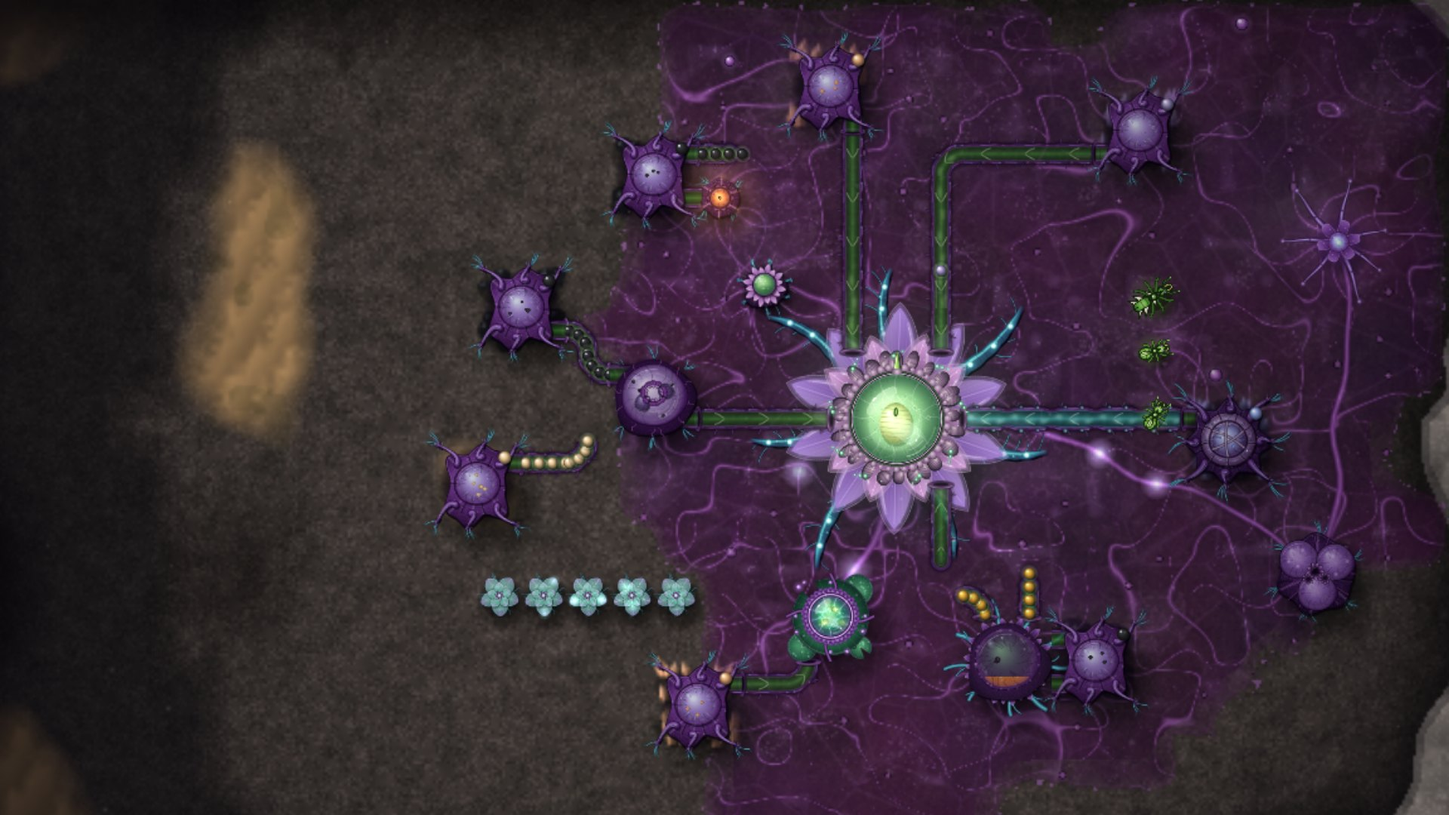
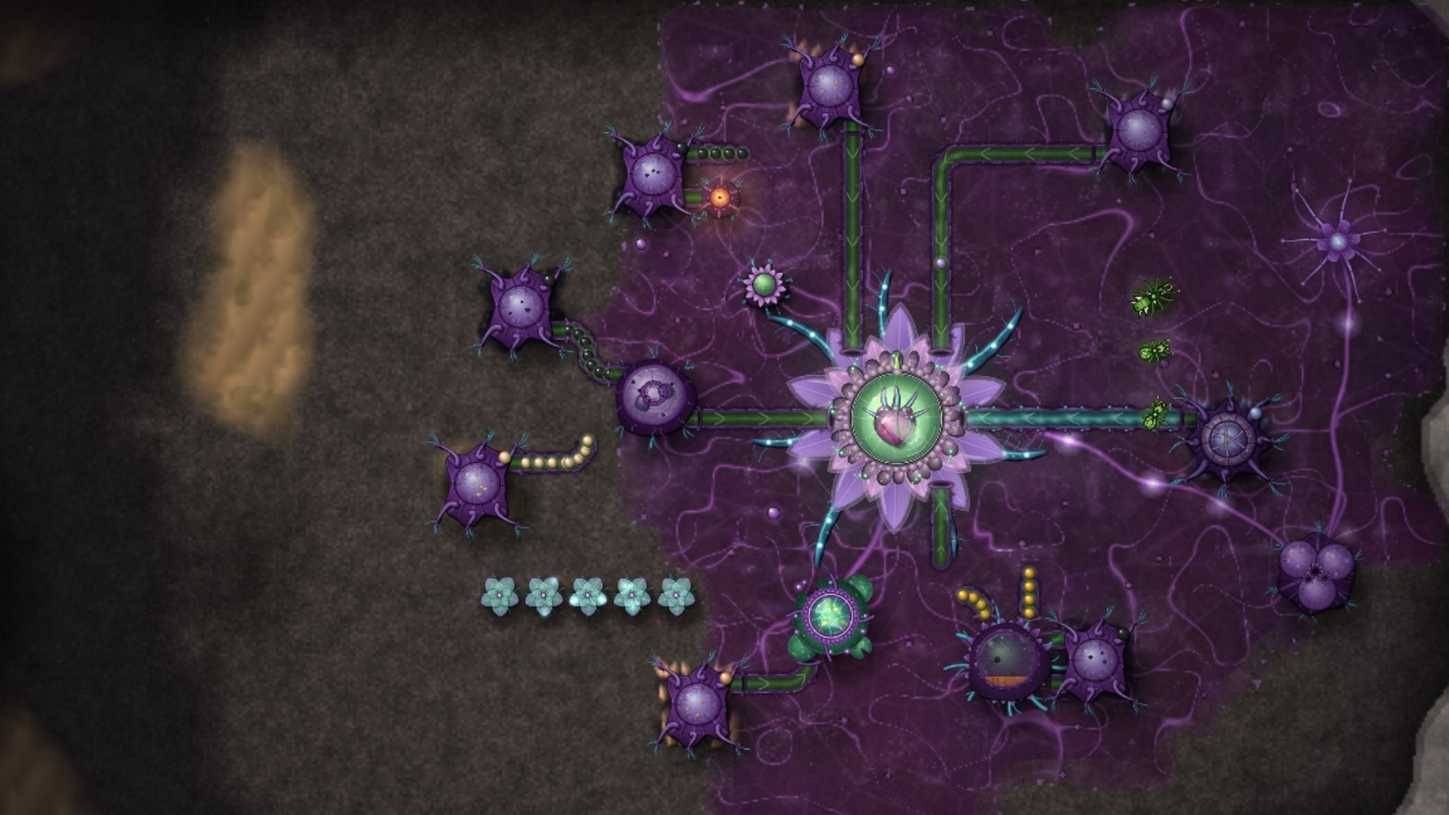
v62: the Bloom Heart replaces the seed in the Bloom's chamber (looks only)
A painted violet heart with turquoise vessels, from the Bloom painter, that
squeezes harder than the chamber on each beat. Title and menu pictures
rendered again to show it. New test tests/xtest62.js.

Claude-Session: https://claude.ai/code/session_015iMpnrdkSLoDdVTGJ8Uq2X

diff --git a/art/source/paint_bloom.js b/art/source/paint_bloom.js
@@ -1,6 +1,6 @@
 // Paints the Bloom layers. Runs in a headless browser; each layer comes back as a PNG data URL.
 // Box layers are 896x896 and cover the Bloom's 3x3 footprint plus 2 tiles of margin on every side (7x7 tiles, 128 px per tile).
-// The footprint is the centre 384x384. Petals, the core and the pulse are separate small sprites that the game places and animates.
+// The footprint is the centre 384x384. Petals, the Bloom Heart and the pulse are separate small sprites that the game places and animates.
 (()=>{
 const N=896,C=448,DR=132; // chamber centre and radius
 let sd=4242;const rnd=()=>(sd=(sd*16807)%2147483647)/2147483647;
@@ -95,21 +95,57 @@ out.petal_inner=petal(146,262,'#2c0f36','#7a3a86','#d09ade','255,214,246','255,2
   const v=c.createRadialGradient(C,C,DR*.6,C,C,DR);v.addColorStop(0,'rgba(0,30,20,0)');v.addColorStop(1,'rgba(0,30,20,.45)');c.fillStyle=v;c.fillRect(0,0,N,N);
   c.restore();out.fluid=cv.toDataURL('image/png');}
 
-// ---------- core: the suspended seed, with a translucent sac and trailing filaments ----------
-{const W=200,[cv,c]=mk(W,W),x=W/2,y=W/2;sd=31;
-  c.strokeStyle='rgba(220,240,200,.28)';c.lineWidth=1.2;for(let k=0;k<6;k++){const a=Math.PI/2+(k-2.5)*.28;c.beginPath();c.moveTo(x+Math.cos(a)*50,y+Math.sin(a)*60);
-    c.bezierCurveTo(x+Math.cos(a)*70+(rnd()-.5)*30,y+Math.sin(a)*80,x+Math.cos(a)*80+(rnd()-.5)*40,y+88,x+Math.cos(a)*86+(rnd()-.5)*30,y+96);c.stroke();}
-  const sac=c.createRadialGradient(x,y,40,x,y,80);sac.addColorStop(0,'rgba(230,255,220,0)');sac.addColorStop(.85,'rgba(230,255,220,.16)');sac.addColorStop(1,'rgba(230,255,220,0)');c.fillStyle=sac;c.beginPath();c.ellipse(x,y,74,84,0,0,7);c.fill();
-  glow(c,x,y,70,'190,255,170',.35);
-  c.fillStyle='rgba(20,40,20,.35)';c.beginPath();c.ellipse(x+5,y+7,46,58,0,0,7);c.fill();
-  const g=c.createRadialGradient(x-14,y-20,4,x,y,58);g.addColorStop(0,'#fbf6dc');g.addColorStop(.5,'#cdd39a');g.addColorStop(1,'#66733f');c.fillStyle=g;c.beginPath();c.ellipse(x,y,44,56,0,0,7);c.fill();
-  c.save();c.beginPath();c.ellipse(x,y,44,56,0,0,7);c.clip();
-  c.strokeStyle='rgba(70,80,40,.45)';c.lineWidth=2;for(let k=0;k<7;k++){c.beginPath();c.moveTo(x-40,y-40+k*13);c.bezierCurveTo(x-15,y-48+k*14+rnd()*8,x+15,y-30+k*12-rnd()*8,x+42,y-38+k*13);c.stroke();}
+// ---------- heart: the Bloom Heart, a living violet heart suspended in the fluid and fed by turquoise vessels ----------
+{const W=256,[cv,c]=mk(W,W),x=W/2+2,y=W/2+8;sd=31;
+  const P=(f)=>{c.beginPath();f();};
+  // the outline: a broad left ventricle and a narrower right one meeting in a blunt apex turned down and right
+  const body=()=>{c.moveTo(x-4,y-46);c.bezierCurveTo(x-40,y-60,x-74,y-34,x-68,y+2);c.bezierCurveTo(x-62,y+34,x-28,y+58,x+14,y+68);
+    c.bezierCurveTo(x+40,y+52,x+62,y+20,x+60,y-14);c.bezierCurveTo(x+58,y-46,x+26,y-58,x-4,y-46);c.closePath();};
+  const sac=c.createRadialGradient(x,y,52,x,y,114);sac.addColorStop(0,'rgba(230,255,240,0)');sac.addColorStop(.82,'rgba(200,255,236,.13)');sac.addColorStop(1,'rgba(200,255,236,0)');c.fillStyle=sac;c.beginPath();c.ellipse(x-2,y-8,106,114,0,0,7);c.fill();
+  glow(c,x,y,98,'120,250,226',.2);glow(c,x-6,y,72,'230,120,200',.16);
+  // a tapering, slightly wavering tube
+  const tube=(pts,w0,w1,layers)=>{const n=40,q2=t=>{const u=1-t;return [u*u*pts[0]+2*u*t*pts[2]+t*t*pts[4],u*u*pts[1]+2*u*t*pts[3]+t*t*pts[5]];};
+    for(const [k,col,f] of layers)for(let i=0;i<=n;i++){const t=i/n,[px,py]=q2(t),w=(w0+(w1-w0)*t)*k*(1+.06*Math.sin(t*19)),a=f(t);if(a<=0)continue;c.fillStyle=col.replace('A',a.toFixed(3));c.beginPath();c.arc(px,py,w/2,0,7);c.fill();}};
+  const fade=t=>t<.55?1:Math.max(0,1-(t-.55)/.45);
+  // the great trunks rising from the top, joining the heart to the Bloom's roots and fading into the fluid
+  const V=[[x-32,y-48,x-50,y-86,x-40,y-118,17,9],[x-4,y-54,x+4,y-92,x-8,y-124,20,10],[x+24,y-50,x+50,y-80,x+60,y-110,15,8],[x+48,y-30,x+82,y-46,x+104,y-60,12,6],[x-58,y-24,x-88,y-40,x-108,y-48,11,6]];
+  for(const v of V){const L=[[1.3,'rgba(16,6,22,A)',t=>.8*fade(t)],[1,'rgba(80,30,92,A)',fade],[.82,'rgba(124,52,132,A)',t=>.7*fade(t)],[.38,'rgba(70,214,196,A)',t=>.85*fade(t)],[.12,'rgba(190,255,244,A)',t=>.5*fade(t)]];tube(v.slice(0,6),v[6],v[7],L);}
+  // shadow under the body
+  c.save();c.translate(6,9);c.fillStyle='rgba(8,18,14,.4)';P(body);c.fill();c.restore();
+  // the atria: two softer chambers behind the top of the heart
+  for(const [ax,ay,rx,ry] of [[x-36,y-40,26,20],[x+28,y-44,22,17]]){const g=c.createRadialGradient(ax-8,ay-8,2,ax,ay,rx);g.addColorStop(0,'#cf84bc');g.addColorStop(.55,'#7e3478');g.addColorStop(1,'#2e0c34');c.fillStyle=g;c.beginPath();c.ellipse(ax,ay,rx,ry,-.2,0,7);c.fill();
+    c.strokeStyle='rgba(26,8,30,.65)';c.lineWidth=2;c.stroke();}
+  // the body: violet flesh lit from the upper left, darker at the rim
+  const g=c.createRadialGradient(x-28,y-20,6,x,y+6,86);g.addColorStop(0,'#e89ad0');g.addColorStop(.25,'#b2449c');g.addColorStop(.6,'#6c1c66');g.addColorStop(1,'#240824');
+  c.fillStyle=g;P(body);c.fill();
+  c.save();P(body);c.clip();
+  // flesh: soft mottling and fine muscle fibres that wrap round the ventricles towards the apex
+  for(let k=0;k<70;k++){const px=x-70+rnd()*134,py=y-50+rnd()*120,r=4+rnd()*12;c.fillStyle=rnd()<.5?`rgba(255,200,240,${.04+rnd()*.05})`:`rgba(40,6,40,${.05+rnd()*.06})`;c.beginPath();c.ellipse(px,py,r,r*.7,rnd()*3,0,7);c.fill();}
+  c.lineWidth=1.1;for(let k=0;k<26;k++){const t=k/25,s=(rnd()-.5)*8;c.strokeStyle=`rgba(50,10,48,${.1+.08*rnd()})`;c.beginPath();
+    c.moveTo(x-72+t*30,y-30+t*20+s);c.bezierCurveTo(x-40+t*26,y+10+t*30,x-6+t*14,y+40+t*14,x+14,y+66);c.stroke();}
+  for(let k=0;k<14;k++){const t=k/13;c.strokeStyle=`rgba(50,10,48,${.1+.08*rnd()})`;c.beginPath();c.moveTo(x+62-t*26,y-24+t*10);c.bezierCurveTo(x+50-t*20,y+12+t*16,x+30-t*8,y+44,x+14,y+66);c.stroke();}
+  // the groove between the ventricles
+  const groove=()=>{c.moveTo(x+4,y-50);c.bezierCurveTo(x-8,y-16,x+20,y+24,x+12,y+68);};
+  c.strokeStyle='rgba(30,6,30,.55)';c.lineWidth=10;P(groove);c.stroke();c.strokeStyle='rgba(250,190,235,.18)';c.lineWidth=2;c.translate(-5,0);P(groove);c.stroke();c.translate(5,0);
+  // rim shadow so it reads round, and a cool rim light on the far side from the fluid
+  const rim=c.createRadialGradient(x-14,y-10,38,x,y,92);rim.addColorStop(0,'rgba(20,0,20,0)');rim.addColorStop(1,'rgba(20,0,20,.6)');c.fillStyle=rim;c.fillRect(0,0,W,W);
+  c.strokeStyle='rgba(150,255,230,.28)';c.lineWidth=5;c.save();c.translate(-3,-2);c.beginPath();c.moveTo(x+60,y-14);c.bezierCurveTo(x+62,y+20,x+40,y+52,x+14,y+68);c.stroke();c.restore();
+  // turquoise vessels across the surface, glowing with the colony's nutrient light
+  const vein=(px,py,a,l,w,d)=>{if(d>4||l<5)return;const ex=px+Math.cos(a)*l,ey=py+Math.sin(a)*l,mx=px+Math.cos(a+(rnd()-.5)*.9)*l*.5,my=py+Math.sin(a+(rnd()-.5)*.9)*l*.5;
+    for(const [lw,col] of [[w+2,'rgba(24,6,30,.45)'],[w,'rgba(96,214,200,.72)'],[w*.38,'rgba(220,255,248,.6)']]){c.strokeStyle=col;c.lineWidth=lw;c.lineCap='round';c.beginPath();c.moveTo(px,py);c.quadraticCurveTo(mx,my,ex,ey);c.stroke();}
+    vein(ex,ey,a+(rnd()-.5)*.35,l*.78,w*.78,d+1);if(rnd()<.7)vein(mx,my,a+(rnd()<.5?-1:1)*(.7+rnd()*.4),l*.55,w*.6,d+2);};
+  glow(c,x+6,y+10,44,'120,250,226',.1);
+  vein(x+4,y-50,1.72,22,3.6,0);vein(x-24,y-46,2.15,22,2.8,0);vein(x+22,y-50,1.0,20,2.8,0);vein(x-50,y-26,1.75,18,2.2,1);vein(x+46,y-30,1.6,18,2.2,1);
   c.restore();
-  // the germ: a dark slit that glows faintly green
-  glow(c,x,y-30,20,'170,255,120',.45);c.fillStyle='#1d2a12';c.beginPath();c.ellipse(x,y-30,6,13,0,0,7);c.fill();c.fillStyle='rgba(200,255,150,.8)';c.beginPath();c.ellipse(x,y-31,1.6,8,0,0,7);c.fill();
-  c.fillStyle='rgba(255,255,255,.55)';c.beginPath();c.ellipse(x-18,y-28,9,5,-.6,0,7);c.fill();
-  out.core=cv.toDataURL('image/png');}
+  c.strokeStyle='rgba(26,6,28,.75)';c.lineWidth=2.4;P(body);c.stroke();
+  // stumps where the trunks meet the heart, open and glowing
+  for(const v of V){const w=v[6];c.fillStyle='#5a2462';c.beginPath();c.ellipse(v[0],v[1],w*.6,w*.44,0,0,7);c.fill();c.strokeStyle='rgba(20,4,24,.7)';c.lineWidth=1.5;c.stroke();glow(c,v[0],v[1],w*.7,'120,250,226',.55);c.fillStyle='rgba(200,255,244,.9)';c.beginPath();c.ellipse(v[0],v[1],w*.22,w*.15,0,0,7);c.fill();}
+  // wet highlights
+  c.fillStyle='rgba(255,240,252,.5)';c.beginPath();c.ellipse(x-38,y-14,13,6,-1,0,7);c.fill();
+  c.fillStyle='rgba(255,240,252,.28)';c.beginPath();c.ellipse(x-30,y+16,7,3,-.8,0,7);c.fill();
+  c.fillStyle='rgba(255,240,252,.35)';c.beginPath();c.ellipse(x+32,y-28,6,3,-.3,0,7);c.fill();
+  drop(c,x-44,y-46,7);
+  out.heart=cv.toDataURL('image/png');}
 
 // ---------- membrane: veins across the chamber and a soft inner glow (pulses) ----------
 {const [cv,c]=mk();sd=12;c.save();c.beginPath();c.arc(C,C,DR,0,7);c.clip();

diff --git a/index.html b/index.html
@@ -1093,7 +1093,7 @@ function webArtFx(c,time,tx0,ty0,tx1,ty1){
     if(f.k==='b'){c.globalCompositeOperation='source-over';c.globalAlpha=.9*fade;const s=S*(1+.35*Math.sin(Math.PI*u));c.drawImage(A.img[3],f.x*T-s/2,f.y*T-s/2,s,s);continue;}
     c.globalCompositeOperation=f.k==='s'?'screen':'lighter';c.globalAlpha=(f.k==='s'?.16:f.k==='g'?.22:.75)*fade;c.drawImage(A.img[f.k==='s'?2:1],f.x*T-r,f.y*T-r,S,S);}
   c.restore();}
-let artHB=0;
+let artHB=0,artHA=0;
 // ===== v61: the colony's circulation (looks only). The Bloom beats twice every 7 to 10 seconds: its chamber tightens and brightens, the
 // petals follow a moment later and less, the veins in its membrane flare, then it rests. Each beat pumps a few turquoise nutrient lights
 // out of the Bloom; they travel through the real Rootweb that the Bloom feeds (the same flood the supply uses), never over bare ground or
@@ -3235,7 +3235,7 @@ function hashS(n){return (Math.sin(n*12.9898)*43758.5453)%1;}
 // Layer fields: f file, g:'dome' to move with the breathing dome, blend ('lighter','screen'...), alpha, pass:'under' to draw beneath
 //   neighbouring buildings (petals, roots), lite:false hides it in the cheap mode, far:false hides it when zoomed far out.
 //   anim: 'pulse' (alpha min..max over period s), 'shimmer' (drifts amp*box), 'float' (n copies of a small sprite drifting inside the dome),
-//   'bob' (one small sprite floating near the dome centre), 'petals' (n petal sprites around the centre, each swaying on its own),
+//   'bob' (one small sprite floating near the dome centre; beat:k squeezes it k times the Bloom's heartbeat), 'petals' (n petal sprites around the centre, each swaying on its own),
 //   'rootpulse' (a glow sprite travelling out along the entry's roots), 'spin', 'aim' (turns to the turret angle), 'blink'.
 // Entry fields: dir, pad, dome [cx,cy,r] as fractions of the box, breathe {amp,period}, priority (always full animation),
 //   hurtShrink (petals shrink by this much at zero health), roots (quadratic curves for 'rootpulse'), over (code-drawn game feedback),
@@ -3312,7 +3312,7 @@ const ART={plant:{
       {f:'petal_outer.png',pass:'under',anim:'petals',n:10,off:0,len:.38,wid:.196,sway:.03,grow:.03,period:6.5},
       {f:'petal_inner.png',pass:'under',anim:'petals',n:10,off:.5,len:.292,wid:.163,sway:.04,grow:.035,period:5.3},
       {f:'collar.png',rect:[.245,.245,.51,.51]},{f:'fluid.png',g:'dome',rect:CH},
-      {f:'core.png',anim:'bob',size:.24,amp:.012,period:9,g:'dome'},
+      {f:'heart.png',anim:'bob',size:.27,amp:.012,period:9,g:'dome',beat:2.4},
       {f:'membrane.png',anim:'pulse',min:.2,max:.42,period:7.5,blend:'lighter',g:'dome',rect:CH},
       {f:'glass.png',g:'dome',rect:CH},{f:'highlight.png',anim:'shimmer',amp:.01,period:8,blend:'screen',g:'dome',far:false,rect:CH},
       {f:'stinger.png',anim:'aim',rect:[.635,.478,.095,.044]}]},
@@ -3409,7 +3409,8 @@ function artLayer(c,a,L,im,bx,by,BS,tt,ph,br,b,hk){
       const px=ox+Math.sin(w*1.3+k)*R*Math.cos(k*1.7),py=oy+Math.sin(w*.9+k*2.3)*R*.8+Math.sin(tt*1.1+k)*s*.15;
       c.save();c.translate(px,py);c.rotate(Math.sin(w*.8+k)*.6+k);c.globalAlpha*=.65+.35*Math.sin(w*2+k);c.drawImage(im,-s/2,-s/2,s,s);c.restore();}}
   else if(L.anim==='bob'){const s=L.size*BS,w=tt*W/L.period+ph;
-    c.translate(ox+Math.sin(w)*L.amp*BS,oy+Math.sin(w*.77+1)*L.amp*BS*1.3);c.rotate(Math.sin(w*.6)*.07);c.drawImage(im,-s/2,-s/2,s,s);}
+    const z=L.beat?s*(1-artHA*L.beat):s;   // the Bloom Heart squeezes harder than its chamber on each beat
+    c.translate(ox+Math.sin(w)*L.amp*BS,oy+Math.sin(w*.77+1)*L.amp*BS*1.3);c.rotate(Math.sin(w*.6)*.07);c.drawImage(im,-z/2,-z/2,z,z);}
   else if(L.anim==='petals'){const n=L.n,w=L.wid*BS,len=L.len*BS*hk,bp=a.breathe?tt*W/a.breathe.period+ph:0;
     for(let k=0;k<n;k++){const p=ph+k*2.399,sw=tt?L.sway*Math.sin(tt*W/L.period+p):0,
         g=tt?1+L.grow*(.55*Math.sin(bp-k*.15)+.45*Math.sin(tt*W/(L.period*1.37)+p*1.7)):1;
@@ -3449,7 +3450,7 @@ function artDraw(c,a,x,y,S,rot,b,time,under){
   const tt=live?(time||0):0,ph=b?(b.id*1.618)%6.283:0;
   let br=a.breathe&&live?1+a.breathe.amp*Math.sin(tt*6.283/a.breathe.period+ph):1;
   let hk=a.hurtShrink&&b?1-a.hurtShrink*(1-Math.max(0,b.hp/b.max)):1;
-  if(b&&live&&b===G.core&&!b.team&&CIRC.G===G){br*=1-CIRC.A*1.15;hk*=1-CIRC.Ap*.6;artHB=CIRC.V;}else artHB=0;
+  if(b&&live&&b===G.core&&!b.team&&CIRC.G===G){br*=1-CIRC.A*1.15;hk*=1-CIRC.Ap*.6;artHB=CIRC.V;artHA=CIRC.A;}else artHB=artHA=0;
   if(a.weapon&&b&&!under){const W=a.weapon;artWeapon(a,b,tt,live);const F=artFire;
     br*=(1-W.squeeze*F.fp)*(1-W.deflate*(1-Math.max(0,b.hp/b.max)));                       // squeezes on each shot, sags as it is hurt
     hk*=1-W.tight*(b._tg||0)-W.flinch*(b.hit>0?Math.min(1,b.hit/.12):0)-W.fireTight*F.fp;}  // petals tighten when engaged, hit or firing
@@ -3471,7 +3472,7 @@ function artDraw(c,a,x,y,S,rot,b,time,under){
     if(L.ammo!=null&&L.ammo!==artFire.ammo)return;
     c.save();if(L.blend)c.globalCompositeOperation=L.blend;c.globalAlpha*=L.alpha??1;
     artLayer(c,a,L,a.img[i],bx,by,BS,tt,ph,br,b,hk);c.restore();});
-  c.restore();c.imageSmoothingEnabled=sm;artHB=0;}
+  c.restore();c.imageSmoothingEnabled=sm;artHB=artHA=0;}
 function drawArt(c,t,x,y,rot,b,time,team){
   const a=artFor(t,team);if(!a)return false;const S=B[t].size*T;
   if(a.custom){const sm=c.imageSmoothingEnabled;c.imageSmoothingEnabled=true;a.custom(c,a,x,y,b,time||0,!b||organLite(t)?'lite':'full');c.imageSmoothingEnabled=sm;artDrawn++;return true;}

diff --git a/tests/xtest62.js b/tests/xtest62.js
@@ -1,0 +1,39 @@
+// v62: the Bloom Heart. The floating seed in the Bloom's chamber is replaced by a painted heart (art/plant/bloom/heart.png) that
+// squeezes harder than the chamber on each beat. Run with a web server on the repo root (port 8123). SHOTS is where pictures go.
+const {chromium}=require(process.env.PW||'playwright');const fs=require('fs');
+const URL=process.env.URL||'http://localhost:8123/',SHOTS=process.env.SHOTS||'shots62';fs.mkdirSync(SHOTS,{recursive:true});
+let fails=0;const ok=(name,c,extra='')=>{if(!c)fails++;console.log(c?'PASS':'FAIL',name,extra);};
+(async()=>{const br=await chromium.launch();
+ const open=async(art='1',rm=false)=>{const ctx=await br.newContext({viewport:{width:1280,height:800},reducedMotion:rm?'reduce':'no-preference'});const p=await ctx.newPage();
+  p.errs=[];p.on('pageerror',e=>p.errs.push(String(e)));
+  await p.addInitScript(a=>{try{localStorage.clear();localStorage.setItem('lc_quality','high');localStorage.setItem('lc_splash','1');localStorage.setItem('lc_fog','0');localStorage.setItem('lc_art',a);}catch(e){}},art);
+  await p.goto(URL+'index.html');await p.waitForTimeout(1500);
+  await p.evaluate(()=>{window.T62={R0:render,
+    setup(){startGame('survival');G.core.hp=1e9;for(let s=0;s<20*30;s++){G.enemies.length=0;step(1/30);}window.render=()=>{};G.paused=true;
+      const [cx,cy]=bCenter(G.core);cam.z=2.6;centerOn(cx,cy);},
+    // draws one frame at game time t and records the size the heart sprite is drawn at
+    frame(t){const a=ART.plant.core,i=a.layers.findIndex(L=>L.f==='heart.png'),im=a.img[i];let z=null;const D=CanvasRenderingContext2D.prototype.drawImage;
+      CanvasRenderingContext2D.prototype.drawImage=function(...x){if(x[0]===im&&x.length>=5)z=x[3];return D.apply(this,x);};
+      G.time=t;try{T62.R0();}finally{CanvasRenderingContext2D.prototype.drawImage=D;}return {z,A:CIRC.A};}};});
+  return p;};
+ {const p=await open();
+  const r=await p.evaluate(()=>{const a=ART.plant.core;return {state:a.state,files:a.layers.map(L=>L.f),old:a.layers.some(L=>L.f==='core.png')};});
+  ok('1. the Bloom Heart art loads and the old seed is gone',r.state==='ready'&&r.files.includes('heart.png')&&!r.old,JSON.stringify(r));
+  await p.evaluate(()=>T62.setup());
+  // a beat from rest: the heart's size each frame against the chamber's tightening
+  const s=await p.evaluate(()=>{const t0=G.time;CIRC.beat=null;CIRC.next=t0+.02;const out=[];for(let i=0;i<40;i++)out.push(T62.frame(t0+i/30));return out;});
+  const rest=s[0].z,min=Math.min(...s.map(f=>f.z)),peak=s.reduce((m,f)=>f.A>m.A?f:m,s[0]);
+  const squeeze=1-min/rest,chamber=1-(1-peak.A*1.15);
+  ok('2. the heart is drawn and squeezes with the beat, harder than the chamber',rest>0&&squeeze>chamber*1.8,`heart ${(squeeze*100).toFixed(1)}%, chamber ${(chamber*100).toFixed(1)}%`);
+  await p.evaluate(()=>{CIRC.beat=null;CIRC.next=G.time+999;CIRC.A=0;CIRC.aft=0;CIRC.P.length=0;T62.frame(G.time);});await p.screenshot({path:SHOTS+'/heart_rest.png',clip:{x:440,y:200,width:400,height:400}});
+  const tp=await p.evaluate(()=>{const t0=G.time;CIRC.beat=null;CIRC.next=t0;T62.frame(t0);let best=t0,A=0;for(let i=1;i<20;i++){const f=T62.frame(t0+i/30);if(f.A>A){A=f.A;best=t0+i/30;}}return best;});
+  await p.evaluate(t=>T62.frame(t),tp);await p.screenshot({path:SHOTS+'/heart_beat.png',clip:{x:440,y:200,width:400,height:400}});
+  await p.evaluate(()=>{const [cx,cy]=bCenter(G.core);cam.z=1;centerOn(cx,cy);T62.frame(G.time+5);});await p.screenshot({path:SHOTS+'/heart_zoom1.png',clip:{x:340,y:100,width:600,height:600}});
+  ok('no page errors',!p.errs.length,p.errs.join(' | '));await p.context().close();}
+ {const p=await open('1',true);await p.evaluate(()=>T62.setup());
+  const s=await p.evaluate(()=>{const t0=G.time;const out=[];for(let i=0;i<30;i++)out.push(T62.frame(t0+i/10).z);return out;});
+  ok('3. reduced motion: the heart holds still',s.every(z=>z===s[0]),s.slice(0,3).join(','));
+  ok('no page errors',!p.errs.length,p.errs.join(' | '));await p.context().close();}
+ {const p=await open('0');await p.evaluate(()=>{T62.setup();T62.R0();});
+  ok('4. painted art off: the drawn Bloom still draws',!p.errs.length,p.errs.join(' | '));await p.context().close();}
+ await br.close();console.log(fails?fails+' FAILED':'ALL PASSED');process.exit(fails?1:0);})();

diff --git a/tests/README.md b/tests/README.md
@@ -98,6 +98,7 @@ Headless Chromium only has software WebGL, so frame times measured on the GPU pa
 | `elmenu59.js` | v59 in the packaged Linux desktop app: the title beats with the lub, dub and transition sounds decoded from the app's files; a key runs the transition onto the menu on the wall clock; the live scene steps 30 times a second; v0.6.8 and Quit at the foot; scenes change; the switch off stops everything; a game lets the scene go. Then the app's processor and memory figures (`OUT`). With `OLD=1` and `LC_APP` it measures an older build's clip menu |
 | `xtest60.js` | v60 polish, 20 checks. The menu's first scene (built under the title) has the painted Rootweb, the same look as a game, with nothing left to paint. A scene built before the art loads is repainted when it arrives. The membrane is painted while the title waits. Tendrils have side shoots and differ in width, start and pace. The membrane covers the screen by 0.85 s and is gone by 1.85 s. Covered, it is structured living tissue with turquoise light, not a flat fill, in both the full and the lighter version. The transition keeps to about two seconds. The heart brightens on the beat, the outer Bloom lags its heart, and the filaments answer, the dub more. Menu text keeps at least 4.5:1 contrast over the brightest scene. |
 | `xtest61.js` | v61 circulation, 41 checks, over http. The Bloom beats twice: two contractions, the second softer. The chamber tightens while the collar and footprint stay put, the petals follow later and less, and the membrane flares. Both beats pump lights from the Bloom. Every light keeps to fed Rootweb and advances progressively. A growth gets a route and a feeder that rises from fed Rootweb and is drawn into it. It gets more traffic, and the beat's lights reach it. Five growths each get a branch within the light budget. On completion (real simulation) the build time is unchanged, the stream stops and the feeder fades and is gone within 2 s. A cut in the Rootweb stops lights at the cut, and mending brings them back. An off-Rootweb Root Tap is placed as before and gets no route. It covers Low to Epic quality, painted art off, far zoom, pause and reduced motion. A save is identical after 20 s of circulation, and a mid-growth save and load restores the feeders. The frame rate holds with 3 and 16 growths at once. Most checks hold the game's loop and draw frames on a clock the test advances. |
+| `xtest62.js` | v62 Bloom Heart, over http: the heart art loads and the old seed is gone; on a beat the heart squeezes more than the chamber; reduced motion holds it still; with painted art off the drawn Bloom still draws. Writes close-ups to `SHOTS` |
 | `menuperf59.js` | v59 menu cost in Chromium: processor (all processes) and memory for the v58 clip menu (`OLD`, default `_v58.html`), each live scene, the still menu and a Survival battle. Writes `perf59.json` (`OUT`) |
 | `idle59.js` | v59: the menu left alone for 30 minutes (`MINS`) with its scenes rotating; every minute the heap after a garbage collection, DOM nodes, entities, the renderer's leftovers, Rootweb chunks and the pace. Writes `idle59.json` (`OUT`) |
 | `stills59.js` | v59: renders `art/menu/<scene>.jpg` from the live scenes at High quality with the menu hidden |

diff --git a/art/ART-GUIDE.md b/art/ART-GUIDE.md
@@ -90,7 +90,7 @@ nest:{name:'Seed Pod',dir:'plant/seed-pod/',dome:[.5,.484,.242],breathe:{amp:.01
 
 - **Footprint:** 3×3 tiles. The box is 7×7 tiles (896×896) with the footprint in the centre 384×384.
 - **Under-pass layers:** roots, root pulses, outer petals and inner petals.
-- **Building-pass layers:** collar, fluid, the floating core, membrane, glass, highlight, and the stinger, which aims where the Bloom spits.
+- **Building-pass layers:** collar, fluid, the Bloom Heart (`heart.png`, v62; it replaced the floating seed `core.png`), membrane, glass, highlight, and the stinger, which aims where the Bloom spits.
 - **Priority:** it always keeps full animation. Only the root pulses and the liquid sheen are dropped when zoomed out past 0.75×.
 - **Damage:** petals shrink with damage, as the old Bloom's did.
 - **Painter script:** `game/art-source/paint_bloom.js`. It also outputs the root curves the pulses follow.
@@ -716,3 +716,14 @@ All of it is drawn by the game (no image files) and is for looks only. It lives 
 - **Finishing:** the steady stream eases off over about 1.2 s. The feeder dulls to the Rootweb's own violet and fades over 1.6 s. The Rootweb itself is never changed.
 - **Not connected:** a growth the fed Rootweb does not reach (a Root Tap on ore beyond it, or one cut off) gets no lights and no feeder. If unfed Rootweb lies beside it, it gets a short, dull grey-violet stub with no channel instead. Its own growing roots (the construction outline) are unchanged.
 - **Detail:** the full sculpting needs the painted art, zoom 0.75 or closer, Medium quality or above and at most six growths at once; otherwise the feeder keeps its body, core and channel. Light caps are 24, 48, 72 and 90 (Low to Epic), 60% of that zoomed far out. Reduced motion keeps the feeders and drops the beat and the lights.
+
+## The Bloom Heart (v62)
+
+The floating seed in the Bloom's chamber is now the **Bloom Heart**: a violet heart with two ventricles, two atria behind them and five vessel trunks rising from its top that fade into the fluid. Turquoise vessels in the Rootweb's own nutrient colour branch across it, so it reads as the source of the lights that the beat pumps out.
+
+- **File:** `art/plant/bloom/heart.png`, 256×256, painted by the `heart` section of `art/source/paint_bloom.js` (seeded, so it repaints the same). The other Bloom layers are unchanged.
+- **Placement:** the `bob` layer in `ART.plant.core`, now 0.27 of the box (it was 0.24), so the heart's body fills about half the chamber and the trunks reach towards its glass.
+- **Beat:** `beat:2.4` on the layer makes the heart squeeze 2.4 times as much as the chamber on each beat (about 7 to 8% against the chamber's 3 to 4%), on top of the chamber's own tightening. Reduced motion holds it still.
+- **Title and menu:** the title background (`art/title/bg.jpg`) and the two menu pictures that show the Bloom (`art/menu/factory.jpg`, `frontier.jpg`) were rendered again so they show the heart. Only the Bloom changed in the title.
+- **Without painted art:** the drawn Bloom already used a heart sprite and is unchanged.
+

diff --git a/docs/v62-bloom-heart.md b/docs/v62-bloom-heart.md
@@ -1,0 +1,23 @@
+# v62: the Bloom Heart
+
+The pale seed that floated in the Bloom's glass chamber is replaced by the **Bloom Heart**, a painted violet heart that beats with the Bloom. The pictures are in `docs/screenshots/v62/`.
+
+This is for looks only. Gameplay, the Bloom's stats and name, saves and the beat's timing are unchanged.
+
+## Why not AutoSprite
+
+The heart was meant to come from AutoSprite. Its connector is installed, but it refuses to generate anything without a paid AutoSprite plan, so the heart was painted with the same canvas painter as the rest of the Bloom (`art/source/paint_bloom.js`). If AutoSprite art is wanted later, it only has to replace `art/plant/bloom/heart.png` (256×256, transparent, the heart centred).
+
+## What changed
+
+- `art/plant/bloom/heart.png` replaces `core.png`. Violet flesh lit from the upper left, muscle fibres wrapping towards the apex, a groove between the ventricles, two atria, five vessel trunks rising from the top and fading into the fluid, and turquoise surface vessels in the Rootweb's nutrient colour.
+- `ART.plant.core`: the layer is `heart.png`, drawn at 0.27 of the box (was 0.24) with `beat:2.4`.
+- `artLayer` (`bob`): a layer with `beat` is drawn smaller by `beat` times the beat's contraction (`CIRC.A`, carried as `artHA` while the player's own Bloom is drawn), so the heart squeezes about 7 to 8% when the chamber tightens about 3 to 4%.
+- The title background and the menu's Factory and First Contact pictures were rendered again with the new heart.
+
+## Checks
+
+- `tests/xtest62.js`: all pass (art loads with no `core.png`; heart squeeze 7.6% against the chamber's 3.7%; still with reduced motion; drawn Bloom fine with art off; no page errors).
+- `tests/xtest61.js` (circulation, 41 checks): all pass, including the save being identical after 20 s of drawing.
+- `lcbloom`, `lcquick`, `lcart`: same output as v61 run side by side, apart from the run-to-run differences of their unseeded games and timings. Both builds report the same cross-origin canvas warnings from `file://`.
+- The title painter, run on v61 and on this build, gives a v61 image identical to the one in the repo, and this build differs only in the Bloom's chamber.
